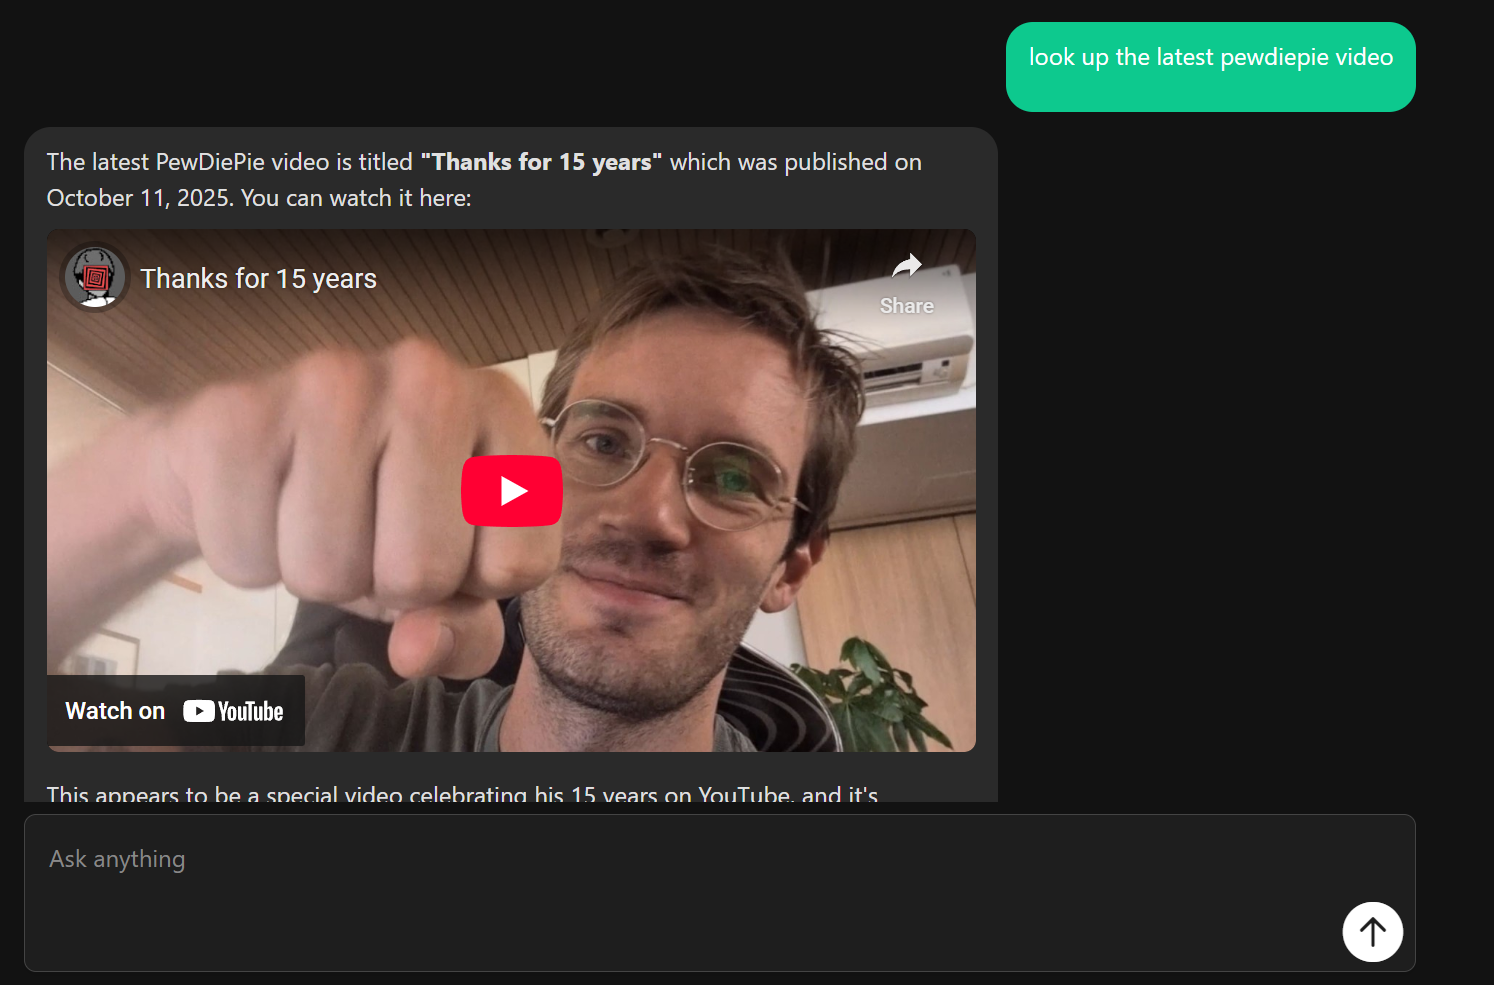
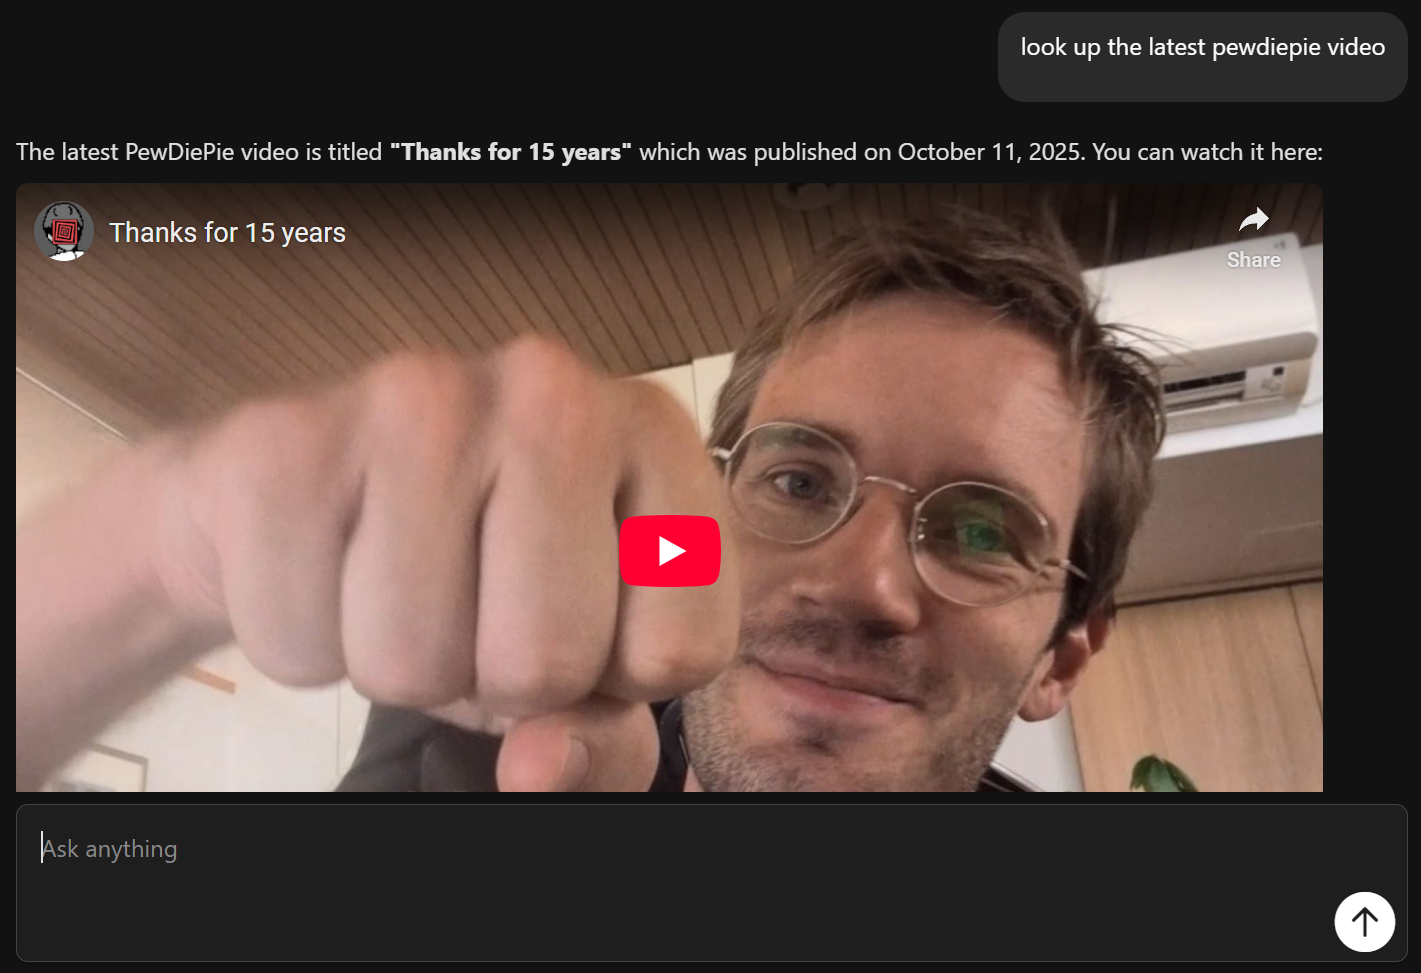
modified ui for bot response

diff --git a/web-interface/src/App.css b/web-interface/src/App.css
@@ -1,10 +1,8 @@
-
 :root {
   /* These are now your permanent dark theme colors */
   --page-background: #121212;
   --text-color: #e0e0e0;
-  --bot-bubble-color: #2a2a2a;
-  --user-bubble-color: #0dc98e;
+  --user-bubble-color: #2a2a2a;
   --user-bubble-text: #ffffff;
   --input-background: #1e1e1e;
   --input-border: #444444;
@@ -21,7 +19,7 @@
 
 .chat-send-button:active {
   transform: scale(0.9);
-  opacity: 1; 
+  opacity: 1;
 }
 
 
@@ -37,7 +35,8 @@
   display: flex;
   justify-content: center;
   align-items: center;
-  color: var(--text-color); /* Added text color */
+  color: var(--text-color);
+  /* Added text color */
 }
 
 .chat-messages-container {
@@ -51,6 +50,7 @@
   scrollbar-width: none;
   -ms-overflow-style: none;
 }
+
 .chat-messages-container::-webkit-scrollbar {
   display: none;
 }
@@ -58,7 +58,8 @@
 .input-container {
   padding: 1rem;
   padding-top: 0.5rem;
-  background-color: var(--page-background); /* Use variable */
+  background-color: var(--page-background);
+  /* Use variable */
 }
 
 .input-container .bg-white {
@@ -91,7 +92,14 @@
 }
 
 .chat-bubble.bot {
-  background-color: var(--bot-bubble-color);
+  background-color: transparent;
+  padding: 0;
+  border-radius: 0;
+  max-width: 100%;
+
   color: var(--text-color);
   align-self: flex-start;
+
+  margin-top: 10px;
+  margin-bottom: 10px;
 }
